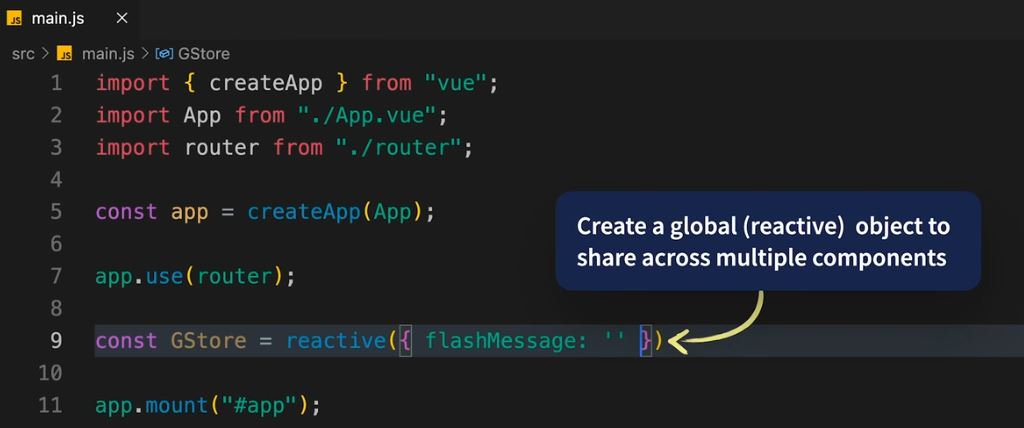
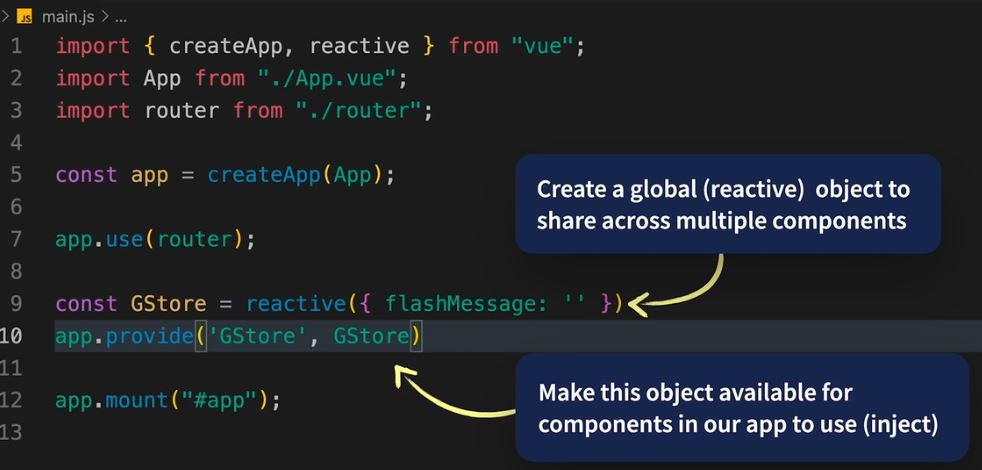
added image

diff --git a/README.md b/README.md
@@ -3043,12 +3043,16 @@ onMounted(() => {
 <br>
 
 ## Flash Message:
+<img src="./assest/Flash-message-01.JPG" />
 For that we need to use global state. And We can create a reactive objuect to use as Global Storage, and share that object across our app. 
 <br>
 > REACTIVE means that when the object is updated, any Component that uses the object is re-renderd. 
+<img src="./assest/Flash-message-02.JPG" />
+<img src="./assest/Flash-message-03.JPG" />
 
 STEP 01:
 Go the main.js and create a object. 
+<img src="./assest/Flash-message-04.JPG" />
 <br>
 
 ```
@@ -3079,6 +3083,7 @@ app.mount("#app");
 <br>
 STEP 02:
 Go to selected component and inject the store: 
+<img src="./assest/Flash-message-05.JPG" />
 <br>
 
 ```
@@ -3142,6 +3147,7 @@ const register = () => {
 STEP03:
 GO to app.vue: 
 Add inject the store and display the message from here too. 
+<img src="./assest/Flash-message-06.JPG" />
 <br>
 
 ```
